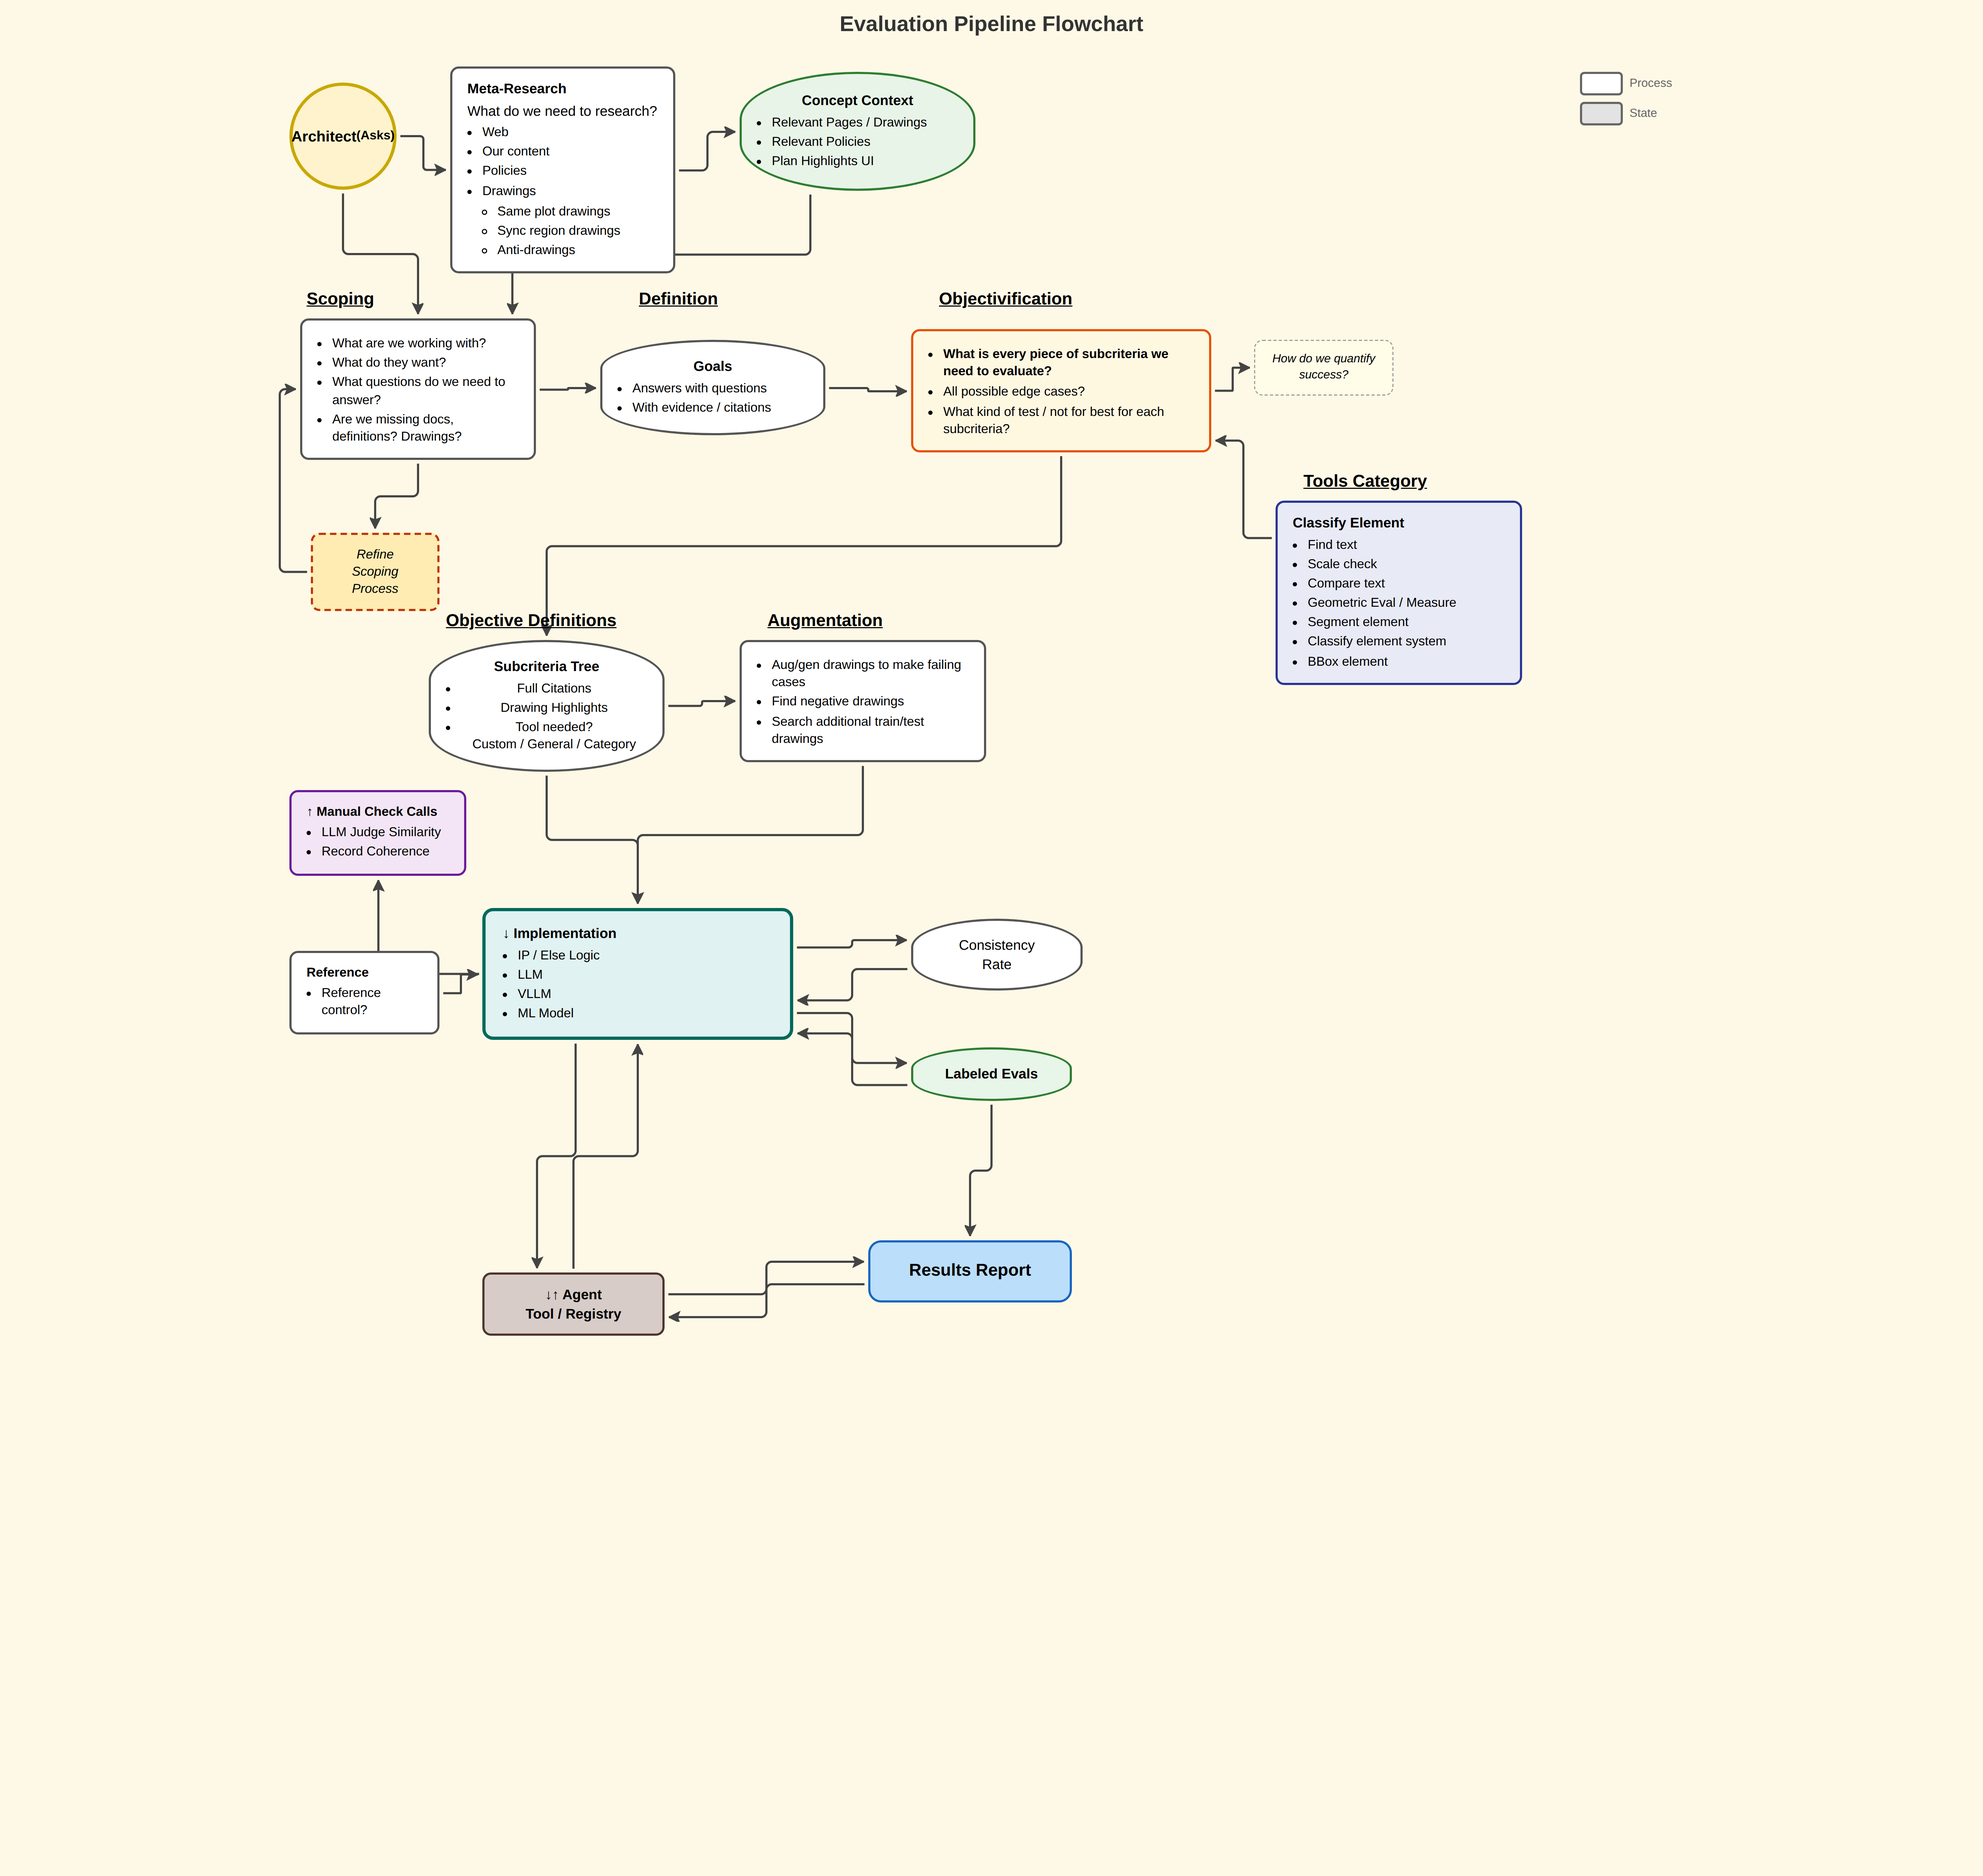
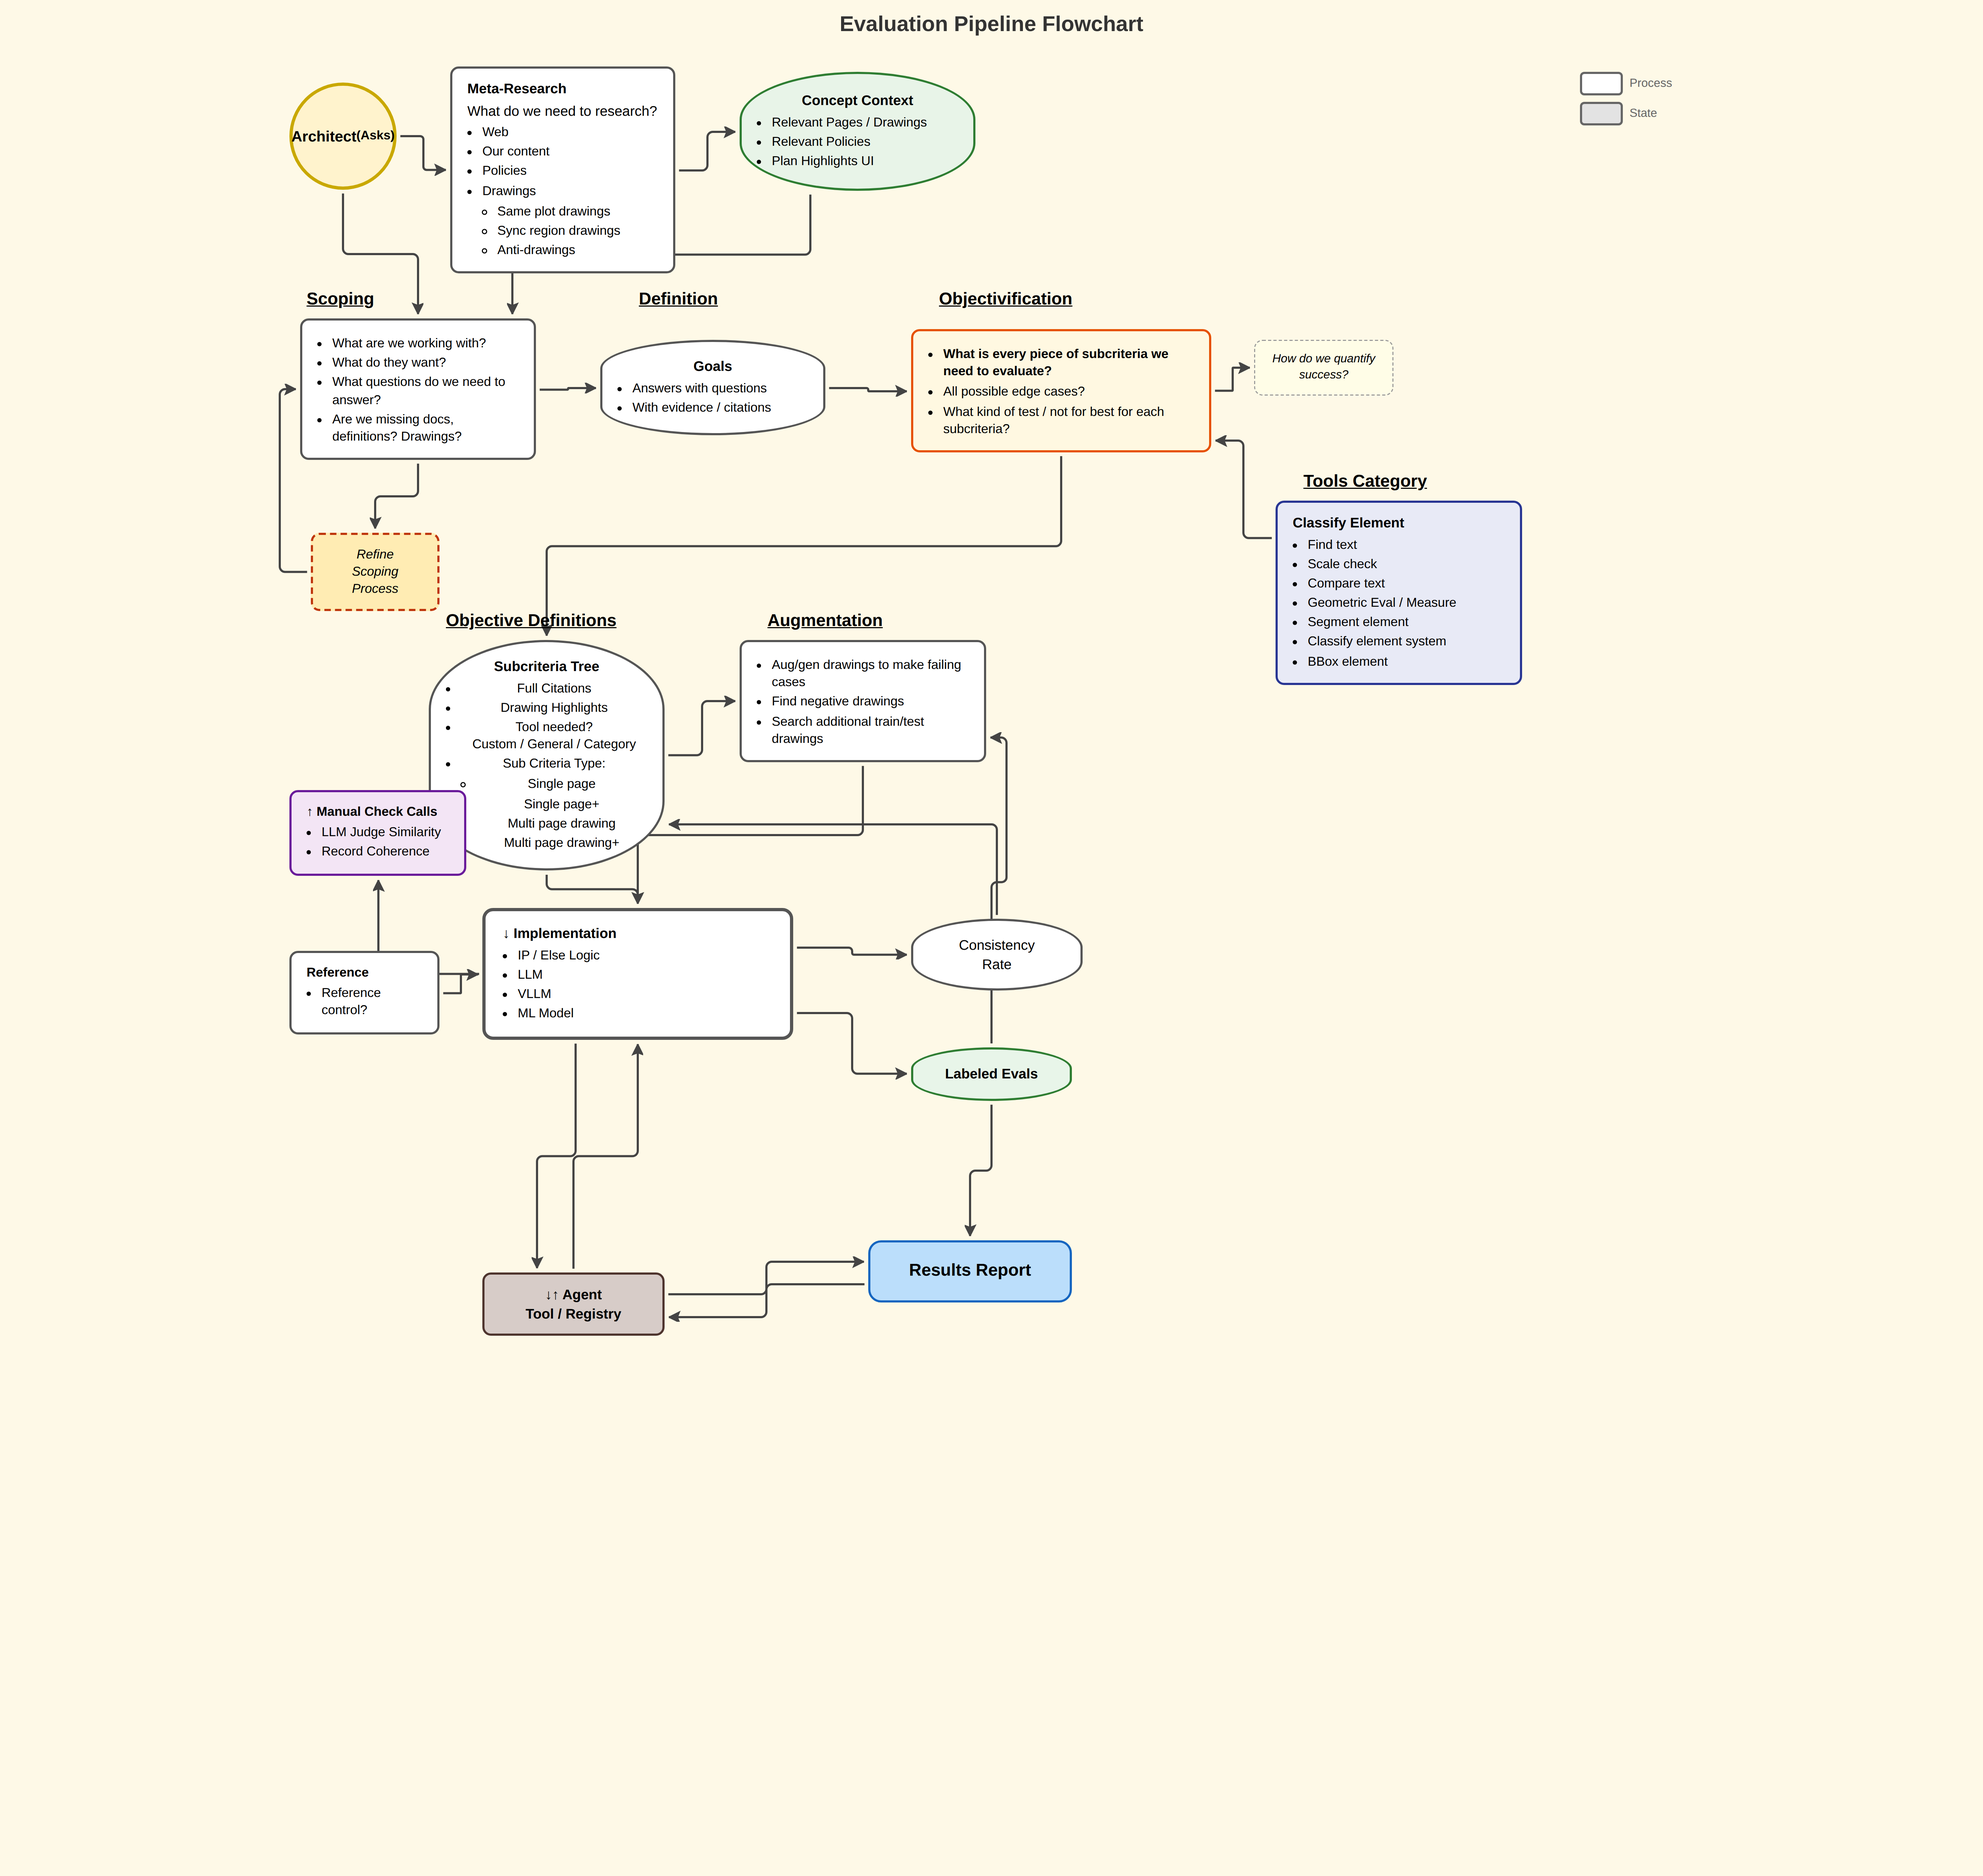
Add sub-criteria types, uncolor impl box, feedback loops
- Objective Definitions: added Sub Criteria Type (Single page,
  Single page+, Multi page drawing, Multi page drawing+)
- Implementation box now white/uncolored
- Consistency Rate feeds back into Objective Definitions (dashed)
- Labeled Evals feeds back into Augmentation (dashed)

https://claude.ai/code/session_01ACqAQYPFBbKpKmakn9XRgH

Changed region(s): [[0.2182, 0.4061, 0.4052, 0.5623], [0.4364, 0.5623, 0.4676, 0.5935], [0.4364, 0.4998, 0.4676, 0.531]]

diff --git a/flowchart.html b/flowchart.html
@@ -156,8 +156,8 @@
     }
 
     .impl-box {
-      background: #e0f2f1;
-      border: 3px solid #00695c;
+      background: #fff;
+      border: 3px solid #555;
       border-radius: 10px;
       width: 290px;
       padding: 12px 16px;
@@ -339,6 +339,14 @@
         <li>Full Citations</li>
         <li>Drawing Highlights</li>
         <li>Tool needed?<br>Custom / General / Category</li>
+        <li>Sub Criteria Type:
+          <ul>
+            <li>Single page</li>
+            <li>Single page+</li>
+            <li>Multi page drawing</li>
+            <li>Multi page drawing+</li>
+          </ul>
+        </li>
       </ul>
     </div>
 
@@ -474,15 +482,19 @@
       // ====== Obj Def → Implementation (down) ======
       connect("obj-def-box", "impl-box", ["Bottom", "Top"]);
 
-      // ====== Implementation ↔ Consistency Rate (bidirectional) ======
-      connect("impl-box", "consistency-rate", [[1, 0.3, 1, 0], [0, 0.3, -1, 0]]);
-      connect("consistency-rate", "impl-box", [[0, 0.7, -1, 0], [1, 0.7, 1, 0]], {
+      // ====== Implementation → Consistency Rate ======
+      connect("impl-box", "consistency-rate", [[1, 0.3, 1, 0], [0, 0.5, -1, 0]]);
+
+      // ====== Consistency Rate → Objective Definitions (feeds back) ======
+      connect("consistency-rate", "obj-def-box", [[0.5, 0, 0, -1], [1, 0.8, 1, 0]], {
         PaintStyle: { stroke: "#00695c", strokeWidth: 2, dashstyle: "4 3" }
       });
 
-      // ====== Implementation ↔ Labeled Evals (bidirectional) ======
-      connect("impl-box", "labeled-evals", [[1, 0.8, 1, 0], [0, 0.3, -1, 0]]);
-      connect("labeled-evals", "impl-box", [[0, 0.7, -1, 0], [1, 0.95, 1, 0]], {
+      // ====== Implementation → Labeled Evals ======
+      connect("impl-box", "labeled-evals", [[1, 0.8, 1, 0], [0, 0.5, -1, 0]]);
+
+      // ====== Labeled Evals → Augmentation (feeds back) ======
+      connect("labeled-evals", "augmentation-box", [[0.5, 0, 0, -1], [1, 0.8, 1, 0]], {
         PaintStyle: { stroke: "#2e7d32", strokeWidth: 2, dashstyle: "4 3" }
       });
 
